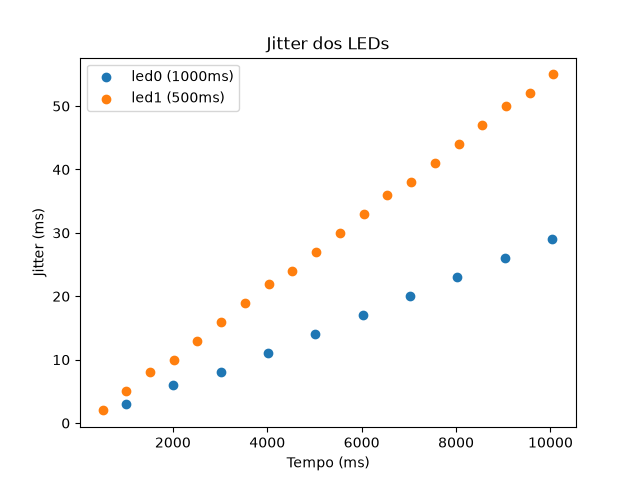
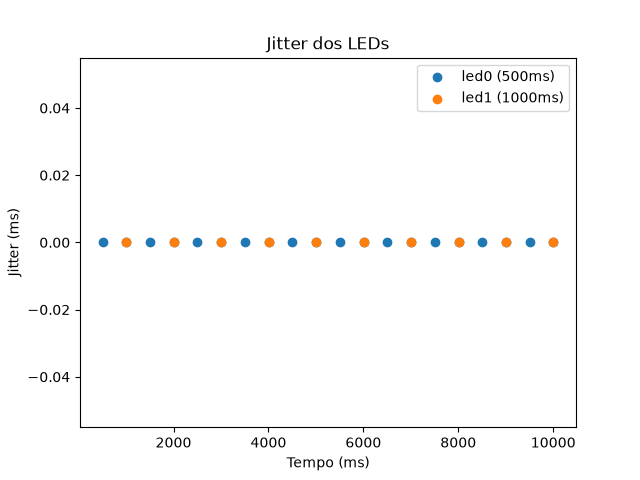
Codigo com os timers validado

diff --git a/src/main.c b/src/main.c
@@ -2,10 +2,6 @@
 #include <zephyr/device.h>
 #include <zephyr/drivers/gpio.h>
 
-#define STACK_SIZE 1024
-#define PRIORITY_1 5
-#define PRIORITY_2 6
-
 #define LED0_NODE DT_ALIAS(led0)
 #define LED1_NODE DT_ALIAS(led1)
 
@@ -15,41 +11,37 @@ static const struct gpio_dt_spec led0 = GPIO_DT_SPEC_GET(LED0_NODE, gpios);
 #error "Unsupported board: led0 devicetree alias is not defined"
 #endif
 
-#if DT_NODE_HAS_STATUS(LED0_NODE, okay)
+#if DT_NODE_HAS_STATUS(LED1_NODE, okay)
 static const struct gpio_dt_spec led1 = GPIO_DT_SPEC_GET(LED1_NODE, gpios);
 #else
-#error "Unsupported board: led1 devicetree alias is not defined"
+#error "Unsupported board: led1 devicetree alia
 #endif
 
-void blink_led_1000ms(void *arg1, void *arg2, void *arg3) {
-    while (1) {
-        printk("[%lld ms] Piscando LED (1000ms)!\n", k_uptime_get());
-        gpio_pin_toggle_dt(&led0);
-        k_msleep(1000);
-    }
+void timer0_handler(struct k_timer *timer_id) {
+    printk("[%lld ms] Piscando LED (500ms)!\n", k_uptime_get());
+    gpio_pin_toggle_dt(&led0);
 }
 
-K_THREAD_DEFINE(thread_blink_led_1000ms, STACK_SIZE, blink_led_1000ms,
-                NULL, NULL, NULL,
-                PRIORITY_1, 0, 0);
-
-
-void blink_led_500ms(void *arg1, void *arg2, void *arg3) {
-    while (1) {
-        printk("[%lld ms] Piscando LED (500ms)!\n", k_uptime_get());
-        gpio_pin_toggle_dt(&led1);
-        k_msleep(500);
-    }
+void timer1_handler(struct k_timer *timer_id) {
+    printk("[%lld ms] Piscando LED (1000ms)!\n", k_uptime_get());
+    gpio_pin_toggle_dt(&led1);
 }
 
-K_THREAD_DEFINE(thread_blink_led_500ms, STACK_SIZE, blink_led_500ms,
-                NULL, NULL, NULL,
-                PRIORITY_2, 0, 0);
+K_TIMER_DEFINE(timer0, timer0_handler, NULL);
+K_TIMER_DEFINE(timer1, timer1_handler, NULL);
 
-void main(void) {
+void blink_led_500ms(void) {
+    k_timer_start(&timer0, K_MSEC(0), K_MSEC(500));
+}
+
+void blink_led_1000ms(void) {
+    k_timer_start(&timer1, K_MSEC(0), K_MSEC(1000));
+}
+
+void main(void)
+{
     int ret;
 
-    // Verifica se o device está pronto
     if (!gpio_is_ready_dt(&led0)) {
         printk("Error: LED device %s is not ready\n", led0.port->name);
         return;
@@ -60,7 +52,6 @@ void main(void) {
         return;
     }
 
-    // Configura o pino como saída
     ret = gpio_pin_configure_dt(&led0, GPIO_OUTPUT_ACTIVE);
     if (ret < 0) {
         printk("Error %d: failed to configure LED pin\n", ret);
@@ -73,5 +64,6 @@ void main(void) {
         return;
     }
 
-    return;
+    blink_led_500ms();
+    blink_led_1000ms();
 }

diff --git a/README.md b/README.md
@@ -4,7 +4,7 @@ Atividade prática inicial da aula 1 da disciplina Microcontroladores 2 (PSI).
 
 ## Descrição
 
-O firmware em `src/main.c` roda duas threads estáticas (blink_led_500ms e blink_led_1000ms) na placa FRDM-KL25Z com Zephyr. Cada uma thread controla um LED (`led0` e `led1`) via GPIO, alternando seus estados em intervalos fixos usando `k_msleep`. Cada troca de estado é registrada via `printk` com o timestamp (`k_uptime_get()`) e o período configurado daquele LED. Existem dois modos de piscar, selecionados em `main()`:
+O firmware em `src/main.c` roda dois temporizadores (blink_led_500ms e blink_led_1000ms) na placa FRDM-KL25Z com Zephyr. Cada temporizador tem um handler que controla um LED (`led0` e `led1`) via GPIO, alternando seus estados em intervalos fixos usando `k_msleep`. Cada troca de estado é registrada via `printk` com o timestamp (`k_uptime_get()`) e o período configurado daquele LED. Existem dois modos de piscar, selecionados em `main()`:
 
 O script `calcular_jitter.py` lê o log serial (`demo_log.txt`/`desafio_log.txt`), extrai os timestamps de cada LED e calcula o jitter (diferença entre o instante medido e o instante nominal esperado, dado o período e o offset inicial). Ele imprime o número de amostras e o jitter máximo de cada LED, além de gerar um gráfico (`.png`) de jitter em função do tempo para os dois LEDs. Para testá-lo, rodar no terminal: 'python calcular_jitter.py aaa_log.txt'
 
